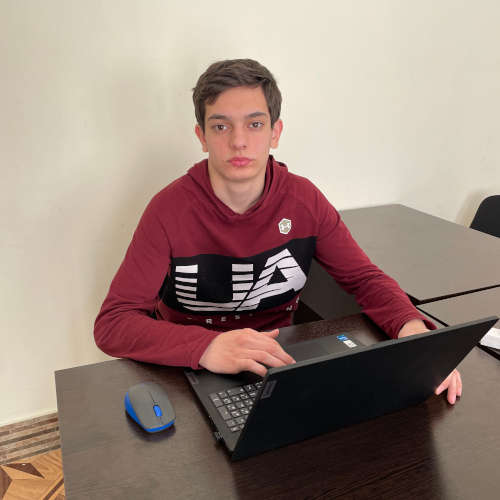
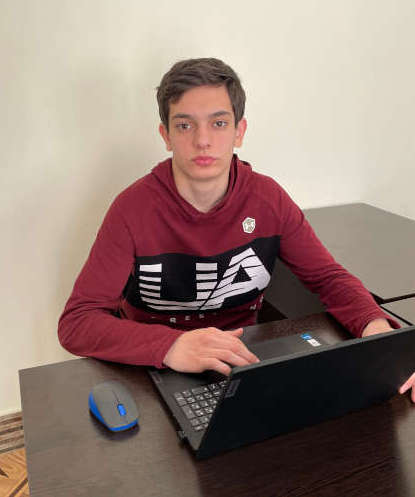
добавил учеников

diff --git a/modules/students/students.php b/modules/students/students.php
@@ -6,24 +6,11 @@
 				<div class="staff">
 					<div class="img-wrap d-flex align-items-stretch">
 						<div class="img align-self-stretch">
-						<img src="/images/students/page/ahmed.jpg" alt="" class="student-img">
+						<img src="/images/students/page/ibrahim-3.jpg" alt="Шихабидов Ибрахим" class="student-img">
 						</div>
 					</div>
 					<div class="text pt-3 text-center">
-						<h3>Ахмед</h3>
-						<span class="position mb-2">Javascript, Node.js, React</span>
-					</div>
-				</div>
-			</div>
-			<div class="col-md-6 col-lg-3 ftco-animate">
-				<div class="staff">
-					<div class="img-wrap d-flex align-items-stretch">
-						<div class="img align-self-stretch">
-						<img src="/images/students/page/ahad.jpg" alt="" class="student-img">
-						</div>
-					</div>
-					<div class="text pt-3 text-center">
-						<h3>Ахад</h3>
+						<h3>Шихабидов Ибрахим</h3>
 						<span class="position mb-2">HTML, CSS, JAVASCRIPT</span>
 					</div>
 				</div>
@@ -32,11 +19,11 @@
 				<div class="staff">
 					<div class="img-wrap d-flex align-items-stretch">
 						<div class="img align-self-stretch">
-						<img src="/images/students/page/seidaga.jpg" alt="" class="student-img">
+						<img src="/images/students/page/islam.jpg" alt="Тагиров Ислам" class="student-img">
 						</div>
 					</div>
 					<div class="text pt-3 text-center">
-						<h3>Сеидага</h3>
+						<h3>Тагиров Ислам</h3>
 						<span class="position mb-2">HTML, CSS, JAVASCRIPT</span>
 					</div>
 				</div>
@@ -45,11 +32,11 @@
 				<div class="staff">
 					<div class="img-wrap d-flex align-items-stretch">
 						<div class="img align-self-stretch">
-						<img src="/images/students/page/murad.jpg" alt="" class="student-img">
+						<img src="/images/students/page/ramadan.jpg" alt="Гусейнов Рамадан" class="student-img">
 						</div>
 					</div>
 					<div class="text pt-3 text-center">
-						<h3>Мурад</h3>
+						<h3>Гусейнов Рамадан</h3>
 						<span class="position mb-2">HTML, CSS, JAVASCRIPT</span>
 					</div>
 				</div>
@@ -58,11 +45,11 @@
 				<div class="staff">
 					<div class="img-wrap d-flex align-items-stretch">
 						<div class="img align-self-stretch">
-						<img src="/images/students/page/jamal.jpg" alt="" class="student-img">
+						<img src="/images/students/page/sultan.jpg" alt="Алиев Султан" class="student-img">
 						</div>
 					</div>
 					<div class="text pt-3 text-center">
-						<h3>Джамал</h3>
+						<h3>Алиев Султан</h3>
 						<span class="position mb-2">HTML, CSS, JAVASCRIPT</span>
 					</div>
 				</div>
@@ -71,11 +58,11 @@
 				<div class="staff">
 					<div class="img-wrap d-flex align-items-stretch">
 						<div class="img align-self-stretch">
-						<img src="/images/students/page/jafer.jpg" alt="" class="student-img">
+						<img src="/images/students/page/bahram.jpg" alt="Мирзоев Бахрам" class="student-img">
 						</div>
 					</div>
 					<div class="text pt-3 text-center">
-						<h3>Джафер</h3>
+						<h3>Мирзоев Бахрам</h3>
 						<span class="position mb-2">HTML, CSS, JAVASCRIPT</span>
 					</div>
 				</div>
@@ -84,11 +71,11 @@
 				<div class="staff">
 					<div class="img-wrap d-flex align-items-stretch">
 						<div class="img align-self-stretch">
-						<img src="/images/students/page/ibrahim-2.jpg" alt="" class="student-img">
+						<img src="/images/students/page/ahmed.jpg" alt="Мисриханов Ахмед" class="student-img">
 						</div>
 					</div>
 					<div class="text pt-3 text-center">
-						<h3>Ибрахим</h3>
+						<h3>Мисриханов Ахмед</h3>
 						<span class="position mb-2">HTML, CSS, JAVASCRIPT</span>
 					</div>
 				</div>
@@ -97,11 +84,76 @@
 				<div class="staff">
 					<div class="img-wrap d-flex align-items-stretch">
 						<div class="img align-self-stretch">
-						<img src="/images/students/page/imam.jpg" alt="" class="student-img">
+						<img src="/images/students/page/seidaga.jpg" alt="Сеидов Сеидага" class="student-img">
 						</div>
 					</div>
 					<div class="text pt-3 text-center">
-						<h3>Имам</h3>
+						<h3>Сеидов Сеидага</h3>
+						<span class="position mb-2">HTML, CSS, JAVASCRIPT</span>
+					</div>
+				</div>
+			</div>
+			<div class="col-md-6 col-lg-3 ftco-animate">
+				<div class="staff">
+					<div class="img-wrap d-flex align-items-stretch">
+						<div class="img align-self-stretch">
+						<img src="/images/students/page/murad.jpg" alt="Абдулхаликов Мурад" class="student-img">
+						</div>
+					</div>
+					<div class="text pt-3 text-center">
+						<h3>Абдулхаликов Мурад</h3>
+						<span class="position mb-2">HTML, CSS, JAVASCRIPT</span>
+					</div>
+				</div>
+			</div>
+			<div class="col-md-6 col-lg-3 ftco-animate">
+				<div class="staff">
+					<div class="img-wrap d-flex align-items-stretch">
+						<div class="img align-self-stretch">
+						<img src="/images/students/page/jamal.jpg" alt="Пирмагомедов Джамал" class="student-img">
+						</div>
+					</div>
+					<div class="text pt-3 text-center">
+						<h3>Пирмагомедов Джамал</h3>
+						<span class="position mb-2">HTML, CSS, JAVASCRIPT</span>
+					</div>
+				</div>
+			</div>
+			<div class="col-md-6 col-lg-3 ftco-animate">
+				<div class="staff">
+					<div class="img-wrap d-flex align-items-stretch">
+						<div class="img align-self-stretch">
+						<img src="/images/students/page/jafer.jpg" alt="Курбанов Джахфер" class="student-img">
+						</div>
+					</div>
+					<div class="text pt-3 text-center">
+						<h3>Курбанов Джахфер</h3>
+						<span class="position mb-2">HTML, CSS, JAVASCRIPT</span>
+					</div>
+				</div>
+			</div>
+			<div class="col-md-6 col-lg-3 ftco-animate">
+				<div class="staff">
+					<div class="img-wrap d-flex align-items-stretch">
+						<div class="img align-self-stretch">
+						<img src="/images/students/page/ibrahim-2.jpg" alt="Биршахов Ибрахим" class="student-img">
+						</div>
+					</div>
+					<div class="text pt-3 text-center">
+						<h3>Биршахов Ибрахим</h3>
+						<span class="position mb-2">HTML, CSS, JAVASCRIPT</span>
+					</div>
+				</div>
+			</div>
+			<div class="col-md-6 col-lg-3 ftco-animate">
+				<div class="staff">
+					<div class="img-wrap d-flex align-items-stretch">
+						<div class="img align-self-stretch">
+						<img src="/images/students/page/imam.jpg" alt="Хваджаев Имамедин" class="student-img">
+						</div>
+					</div>
+					<div class="text pt-3 text-center">
+						<h3>Хваджаев Имамедин</h3>
 						<span class="position mb-2">Javascript, Node.js, REACT.js</span>
 						<!-- <div class="faded">
 							<p>2009 года рождения. Поступил в сентябре 2023 года. Прошел курсы по языкам HTML, CSS и Javascript</p>
@@ -113,11 +165,11 @@
 				<div class="staff">
 					<div class="img-wrap d-flex align-items-stretch">
 						<div class="img align-self-stretch">
-						<img src="/images/students/page/nasrulla.jpg" alt="" class="student-img">
+						<img src="/images/students/page/nasrulla.jpg" alt="Даргаев Насруллах" class="student-img">
 						</div>
 					</div>
 					<div class="text pt-3 text-center">
-						<h3>Насрулла</h3>
+						<h3>Даргаев Насруллах</h3>
 						<span class="position mb-2">Javascript, Node.js, REACT.js</span>
 						<!-- <div class="faded">
 							<p>2009 года рождения. Поступил в сентябре 2023 года. Прошел курсы по языкам HTML, CSS и Javascript</p>
@@ -129,11 +181,11 @@
 				<div class="staff">
 					<div class="img-wrap d-flex align-items-stretch">
 						<div class="img align-self-stretch">
-							<img src="/images/students/page/khasan.jpg" alt="" class="student-img">
+							<img src="/images/students/page/khasan.jpg" alt="Вагабов Хасан" class="student-img">
 						</div>
 					</div>
 					<div class="text pt-3 text-center">
-						<h3>Хасан</h3>
+						<h3>Вагабов Хасан</h3>
 						<span class="position mb-2">Javascript, Node.js, REACT.js</span>
 						<!-- <div class="faded">
 							<p>2009 года рождения. Поступил в сентябре 2023 года. Прошел курсы по языкам HTML, CSS и Javascript</p>
@@ -145,11 +197,11 @@
 				<div class="staff">
 					<div class="img-wrap d-flex align-items-stretch">
 						<div class="img align-self-stretch">
-						<img src="/images/students/page/marat.jpg" alt="" class="student-img">
+						<img src="/images/students/page/marat.jpg" alt="Сагидов Марат" class="student-img">
 						</div>
 					</div>
 					<div class="text pt-3 text-center">
-						<h3>Марат</h3>
+						<h3>Сагидов Марат</h3>
 						<span class="position mb-2">JAVASCRIPT, REACT.JS</span>
 						<!-- <div class="faded">
 							<p>2009 года рождения. Поступил в сентябре 2023 года. Прошел курсы по языкам HTML, CSS и Javascript</p>
@@ -161,11 +213,11 @@
 				<div class="staff">
 					<div class="img-wrap d-flex align-items-stretch">
 						<div class="img align-self-stretch">
-						<img src="/images/students/page/farman.jpg" alt="" class="student-img">
+						<img src="/images/students/page/farman.jpg" alt="Уружбеков Фарман" class="student-img">
 						</div>
 					</div>
 					<div class="text pt-3 text-center">
-						<h3>Фарман</h3>
+						<h3>Уружбеков Фарман</h3>
 						<span class="position mb-2">JAVASCRIPT, REACT.JS</span>
 						<!-- <div class="faded">
 							<p>2009 года рождения. Поступил в сентябре 2023 года. Прошел курсы по языкам HTML, CSS и Javascript</p>
@@ -177,11 +229,11 @@
 				<div class="staff">
 					<div class="img-wrap d-flex align-items-stretch">
 						<div class="img align-self-stretch">
-						<img src="/images/students/page/nezer.jpg" alt="" class="student-img">
+						<img src="/images/students/page/nezer.jpg" alt="Керимханов Незер" class="student-img">
 						</div>
 					</div>
 					<div class="text pt-3 text-center">
-						<h3>Незер</h3>
+						<h3>Керимханов Незер</h3>
 						<span class="position mb-2">JAVASCRIPT, REACT.JS</span>
 						<!-- <div class="faded">
 							<p>2009 года рождения. Поступил в сентябре 2023 года. Прошел курсы по языкам HTML, CSS и Javascript</p>
@@ -285,11 +337,11 @@
 				<div class="staff">
 					<div class="img-wrap d-flex align-items-stretch">
 						<div class="img align-self-stretch">
-							<img src="/images/students/page/ramzan.jpg" alt="" class="student-img">
+							<img src="/images/students/page/ramzan.jpg" alt="Джамалов Рамзан" class="student-img">
 						</div>
 					</div>
 					<div class="text pt-3 text-center">
-						<h3>Рамзан</h3>
+						<h3>Джамалов Рамзан</h3>
 						<span class="position mb-2">HTML, CSS, Javascript</span>
 					</div>
 				</div>
@@ -329,19 +381,6 @@
 					</div>
 					<div class="text pt-3 text-center">
 						<h3>Заур</h3>
-						<span class="position mb-2">HTML, CSS, Javascript</span>
-					</div>
-				</div>
-			</div>
-			<div class="col-md-6 col-lg-3 ftco-animate">
-				<div class="staff">
-					<div class="img-wrap d-flex align-items-stretch">
-						<div class="img align-self-stretch">
-						<img src="/images/students/page/ibrahim.jpg" alt="" class="student-img">
-						</div>
-					</div>
-					<div class="text pt-3 text-center">
-						<h3>Ибрахим</h3>
 						<span class="position mb-2">HTML, CSS, Javascript</span>
 					</div>
 				</div>
